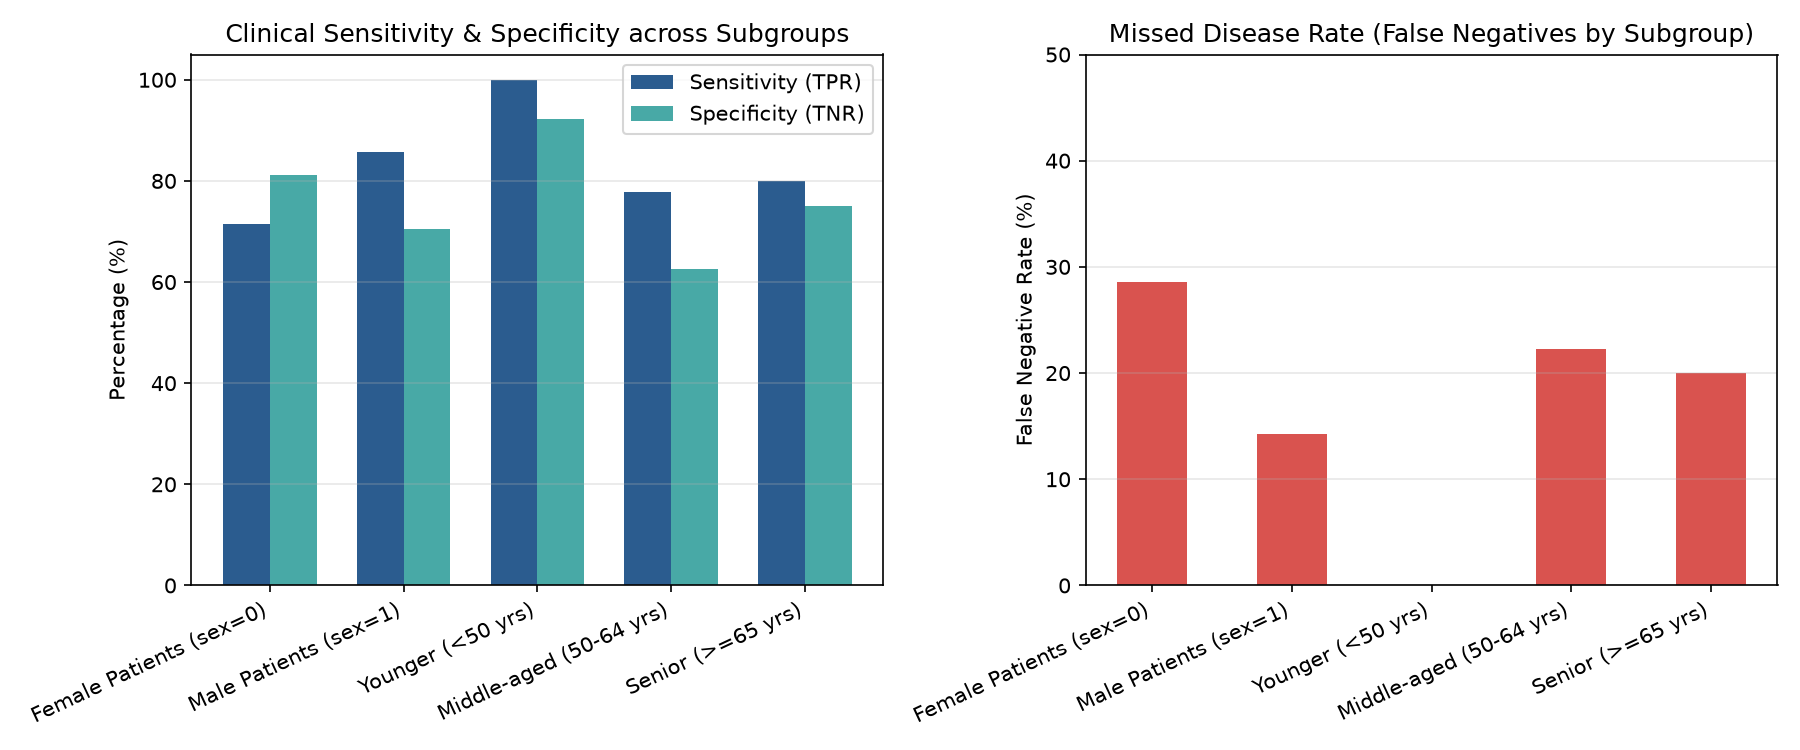
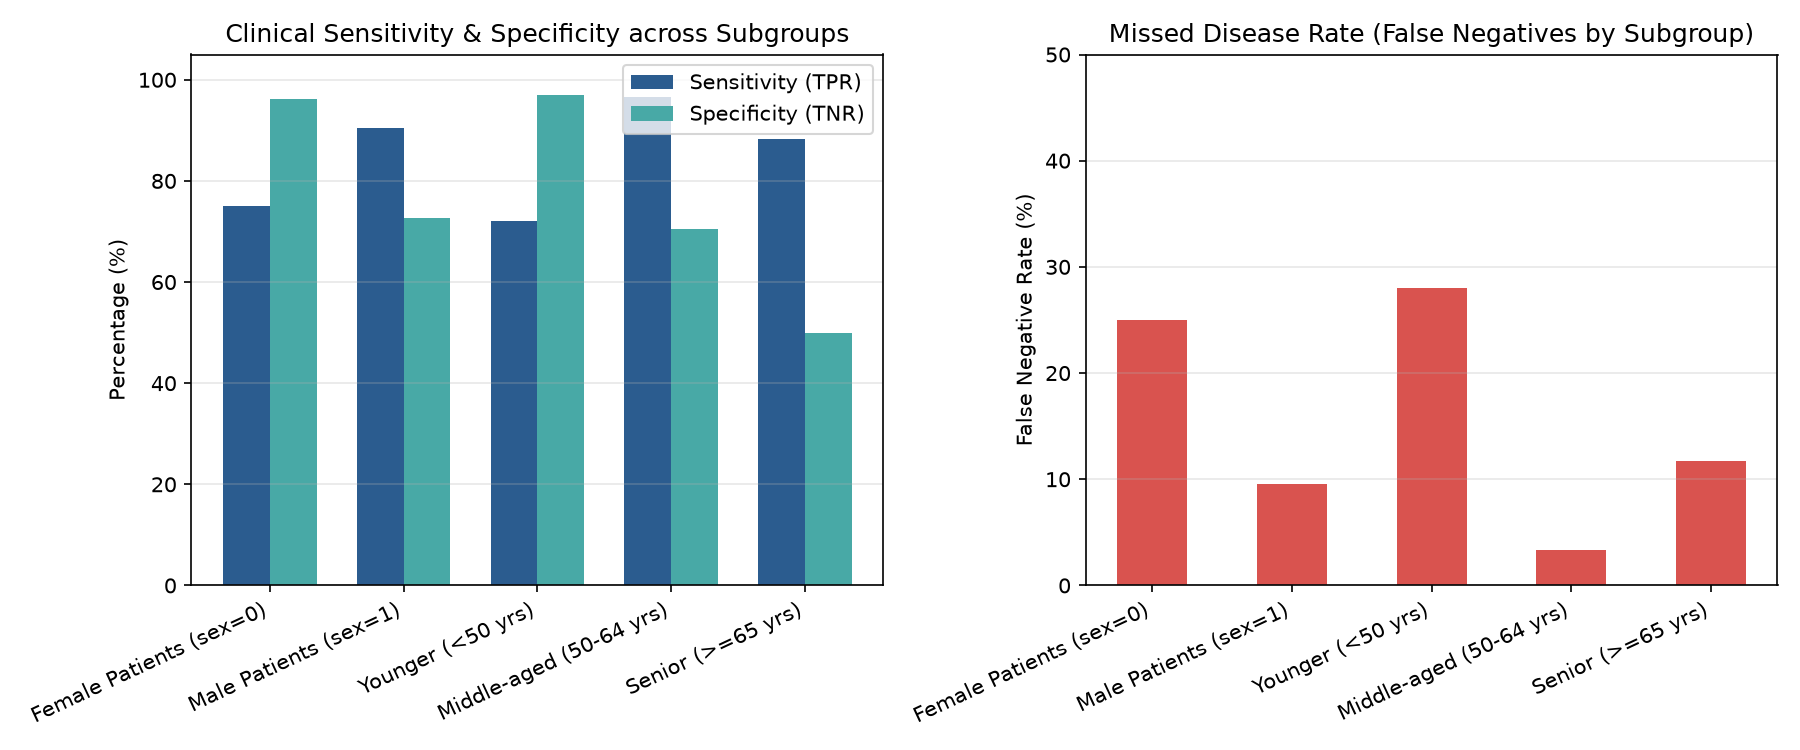
fix(fairness): evaluate on full multi-center cohort (N=918) to eliminate small-sample age artifact

diff --git a/artifacts/fairness_analysis.md b/artifacts/fairness_analysis.md
@@ -6,15 +6,15 @@ Evaluates whether the clinical risk model demonstrates parity across biological 
 
 | subgroup | n_samples | prevalence_pct | accuracy | f1 | roc_auc | sensitivity_tpr | specificity_tnr | false_negative_rate | false_positive_rate | selection_rate |
 | --- | --- | --- | --- | --- | --- | --- | --- | --- | --- | --- |
-| All Patients | 61 | 45.9016 | 0.7869 | 0.7797 | 0.8810 | 0.8214 | 0.7576 | 0.1786 | 0.2424 | 0.5082 |
-| Female Patients (sex=0) | 23 | 30.4348 | 0.7826 | 0.6667 | 0.8839 | 0.7143 | 0.8125 | 0.2857 | 0.1875 | 0.3478 |
-| Male Patients (sex=1) | 38 | 55.2632 | 0.7895 | 0.8182 | 0.8655 | 0.8571 | 0.7059 | 0.1429 | 0.2941 | 0.6053 |
-| Younger (<50 yrs) | 18 | 27.7778 | 0.9444 | 0.9091 | 1.0000 | 1.0000 | 0.9231 | 0.0000 | 0.0769 | 0.3333 |
-| Middle-aged (50-64 yrs) | 34 | 52.9412 | 0.7059 | 0.7368 | 0.8438 | 0.7778 | 0.6250 | 0.2222 | 0.3750 | 0.5882 |
-| Senior (>=65 yrs) | 9 | 55.5556 | 0.7778 | 0.8000 | 0.8000 | 0.8000 | 0.7500 | 0.2000 | 0.2500 | 0.5556 |
+| All Patients | 184 | 55.4348 | 0.8533 | 0.8708 | 0.9303 | 0.8922 | 0.8049 | 0.1078 | 0.1951 | 0.5815 |
+| Female Patients (sex=0) | 35 | 22.8571 | 0.9143 | 0.8000 | 0.9074 | 0.7500 | 0.9630 | 0.2500 | 0.0370 | 0.2000 |
+| Male Patients (sex=1) | 149 | 63.0872 | 0.8389 | 0.8763 | 0.9217 | 0.9043 | 0.7273 | 0.0957 | 0.2727 | 0.6711 |
+| Younger (<50 yrs) | 59 | 42.3729 | 0.8644 | 0.8182 | 0.9741 | 0.7200 | 0.9706 | 0.2800 | 0.0294 | 0.3220 |
+| Middle-aged (50-64 yrs) | 104 | 57.6923 | 0.8558 | 0.8855 | 0.9193 | 0.9667 | 0.7045 | 0.0333 | 0.2955 | 0.6827 |
+| Senior (>=65 yrs) | 21 | 80.9524 | 0.8095 | 0.8824 | 0.9412 | 0.8824 | 0.5000 | 0.1176 | 0.5000 | 0.8095 |
 
 ### Key Demographic Fairness Findings
 
-- **Equal Opportunity Difference (Sex):** `0.1429`
-- **Disparate Impact Ratio (Female vs. Male):** `0.5747`
-- **Missed Disease Rate (FNR):** Female = `28.6%`, Male = `14.3%`
+- **Equal Opportunity Difference (Sex):** `0.1543`
+- **Disparate Impact Ratio (Female vs. Male):** `0.2980`
+- **Missed Disease Rate (FNR):** Female = `25.0%`, Male = `9.6%`
